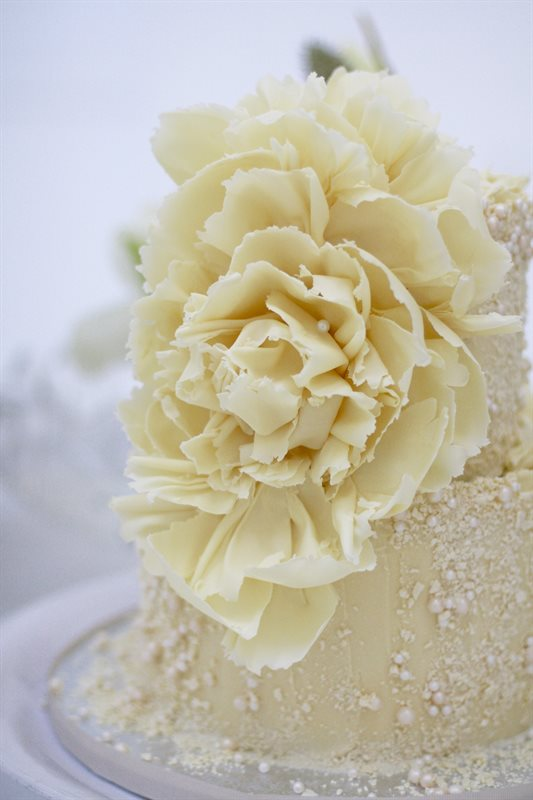
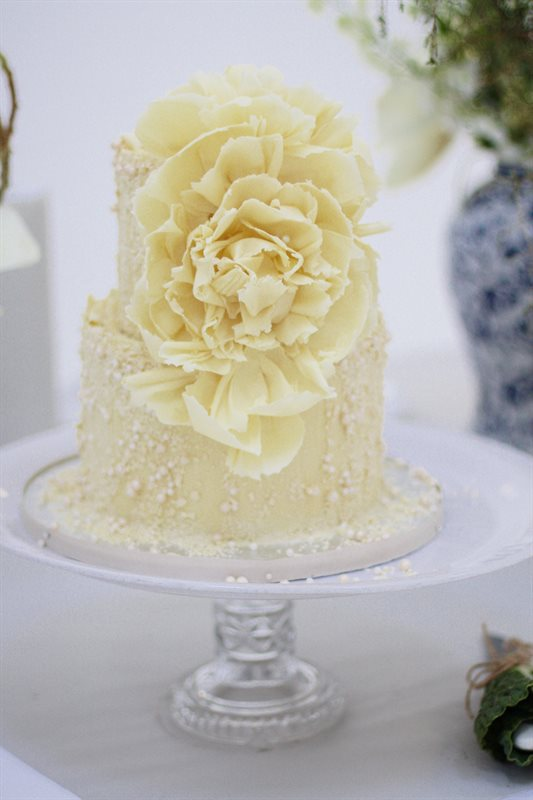
Homepage: swap white couverture offering to IMG_6636 — entire cake visible on pedestal, matches chocolate card composition

diff --git a/index.html b/index.html
@@ -818,7 +818,7 @@
         <span class="offering-cta">View Portfolio &rarr;</span>
       </a>
       <a href="white-chocolate-weddings.html" class="offering reveal d1">
-        <div class="offering-img"><img src="images/ww-offering.jpg?v=1" alt="White couverture wedding cake — hand-sculpted ivory peony bloom on a pearl-beaded tier by Kanya Hunt" loading="lazy"/></div>
+        <div class="offering-img"><img src="images/ww-offering.jpg?v=2" alt="White couverture wedding cake — hand-sculpted ivory peony bloom on a pearl-beaded two-tier cake by Kanya Hunt" loading="lazy"/></div>
         <h3 class="offering-title">White Couverture</h3>
         <p class="offering-body">Pearl-on-pearl finishes, blush ruffles, ivory florals — luminous white couverture work for the romantic, the modern, and the editorial wedding.</p>
         <span class="offering-cta">View Portfolio &rarr;</span>
